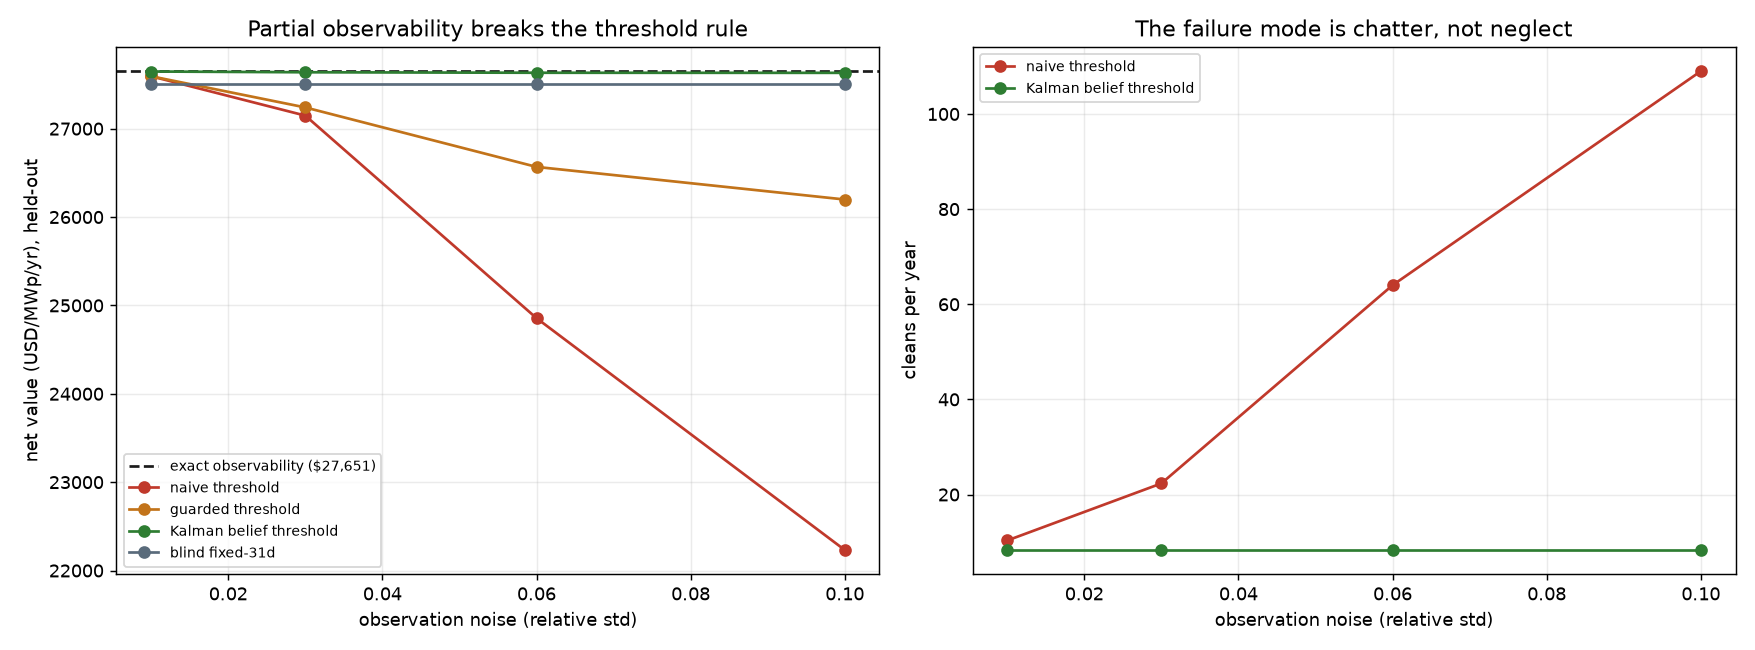
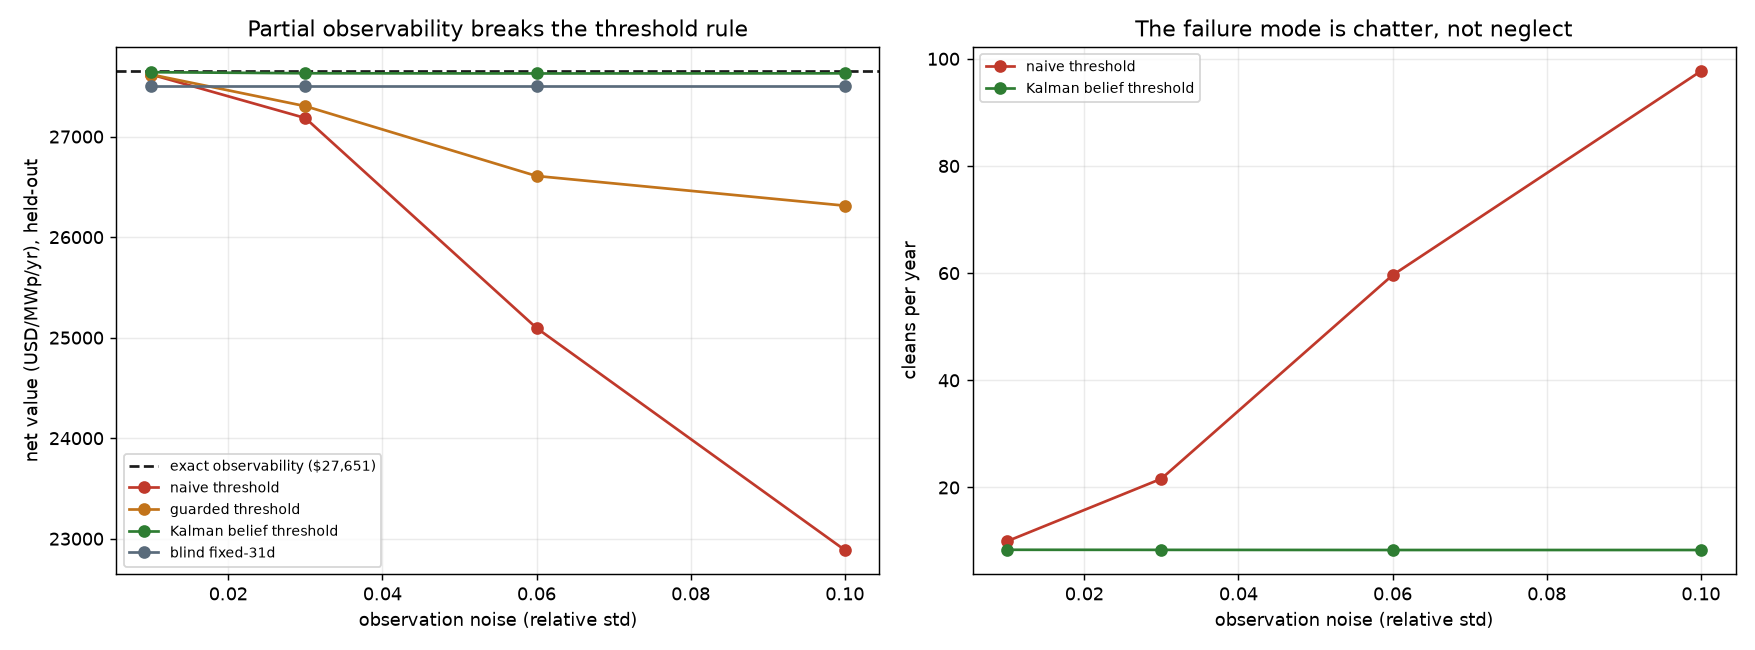
Fix m5_verify crashing after every check, and guard that bug class
The M5 re-run with corrected sampling completed every check and then died on
its last line:

    ValueError: too many values to unpack (expected 3)

check() had grown a `declared` flag and appends a four-tuple, but the summary
block still destructured three. An earlier patch was supposed to replace that
block and silently did not match, so the script has been crashing since the
declared/scrutiny labelling was introduced -- undetected because m5_verify was
not re-run until now.

This is the SECOND time an edit broke an earlier acceptance script and nothing
caught it; the first was the import cycle that broke m3_verify for three
milestones. The acceptance scripts are the evidence each milestone is done, so
tests/test_verify_scripts.py now asserts, statically and for every script:

  * it parses, and every milestone M0-M7 has one;
  * what check() appends to RESULTS matches what the summary unpacks -- the
    exact defect above, caught without executing anything;
  * the docstring records the criteria declared before the milestone was built,
    so the script can be audited against the plan later;
  * a failing check exits non-zero, including self-imposed scrutiny checks.

M5 now exits 0 with declared criteria 8/8 on the corrected 40-seed sampling.

Tests: 143 -> 176.

diff --git a/tests/test_verify_scripts.py b/tests/test_verify_scripts.py
@@ -1,0 +1,116 @@
+"""Static checks on the milestone acceptance scripts.
+
+These exist because the same bug happened twice, and both times the test suite
+could not have caught it:
+
+* ``scripts/m3_verify.py`` was broken for three milestones by an import cycle
+  introduced in M5 (see ``test_imports.py``);
+* ``scripts/m5_verify.py`` ran every check and then crashed unpacking its own
+  results, because a ``declared`` flag was added to ``check()`` while the
+  summary block that consumes ``RESULTS`` still expected the old three-tuple.
+
+Both were edits that broke an *earlier* script, and neither was noticed because
+the script was not re-run. The acceptance scripts are deliverables -- they are
+the evidence each milestone is done -- so their internal consistency is worth
+asserting cheaply and always, rather than only discovering it on the next
+hour-long training run.
+
+These are static checks by design: they parse the scripts rather than execute
+them, so they stay fast enough to run on every commit. End-to-end execution of
+the fast scripts is a separate, slower concern.
+"""
+
+from __future__ import annotations
+
+import ast
+from pathlib import Path
+
+import pytest
+
+SCRIPTS = sorted((Path(__file__).resolve().parents[1] / "scripts").glob("m*_verify.py"))
+
+
+def _module(path: Path) -> ast.Module:
+    return ast.parse(path.read_text(encoding="utf-8"))
+
+
+def test_every_milestone_has_an_acceptance_script():
+    names = {p.stem for p in SCRIPTS}
+    assert names == {f"m{i}_verify" for i in range(8)}, names
+
+
+@pytest.mark.parametrize("path", SCRIPTS, ids=lambda p: p.stem)
+def test_script_parses(path: Path):
+    _module(path)
+
+
+@pytest.mark.parametrize("path", SCRIPTS, ids=lambda p: p.stem)
+def test_results_arity_is_consistent(path: Path):
+    """What ``check()`` appends must match what the summary unpacks.
+
+    This is the exact m5_verify bug: ``check()`` grew a fourth field and the
+    summary kept destructuring three, so the script did all its work and then
+    raised ValueError on the last line.
+    """
+    tree = _module(path)
+
+    appended: set[int] = set()
+    unpacked: set[int] = set()
+
+    for node in ast.walk(tree):
+        # RESULTS.append((a, b, c[, d]))
+        if (
+            isinstance(node, ast.Call)
+            and isinstance(node.func, ast.Attribute)
+            and node.func.attr == "append"
+            and isinstance(node.func.value, ast.Name)
+            and node.func.value.id == "RESULTS"
+            and node.args
+            and isinstance(node.args[0], ast.Tuple)
+        ):
+            appended.add(len(node.args[0].elts))
+
+        # [... for a, b, c[, d] in RESULTS ...]
+        for comp in getattr(node, "generators", []):
+            if (
+                isinstance(comp.iter, ast.Name)
+                and comp.iter.id == "RESULTS"
+                and isinstance(comp.target, ast.Tuple)
+            ):
+                unpacked.add(len(comp.target.elts))
+
+    assert appended, f"{path.name} never appends to RESULTS"
+    assert len(appended) == 1, f"{path.name} appends differing tuple sizes: {appended}"
+    assert unpacked, f"{path.name} never consumes RESULTS"
+    assert unpacked == appended, (
+        f"{path.name}: check() appends {appended} field(s) but the summary "
+        f"unpacks {unpacked} -- the script will crash after running every check"
+    )
+
+
+@pytest.mark.parametrize("path", SCRIPTS, ids=lambda p: p.stem)
+def test_script_declares_its_criteria_in_the_docstring(path: Path):
+    """Each script must state the criteria that were declared before it was built.
+
+    The project's whole method is that acceptance criteria are fixed in advance;
+    a script whose docstring does not carry them cannot be audited against the
+    plan later.
+    """
+    docstring = ast.get_docstring(_module(path)) or ""
+    assert "declared" in docstring.lower(), (
+        f"{path.name} docstring must record the criteria declared before the "
+        "milestone was built"
+    )
+
+
+@pytest.mark.parametrize("path", SCRIPTS, ids=lambda p: p.stem)
+def test_exit_code_is_nonzero_when_a_check_fails(path: Path):
+    """A red run must exit non-zero, including for self-imposed scrutiny checks.
+
+    A script that prints FAIL and exits 0 is worse than no check at all.
+    """
+    source = path.read_text(encoding="utf-8")
+    assert "return 1" in source, f"{path.name} has no failing exit path"
+    assert "raise SystemExit(main())" in source, (
+        f"{path.name} must propagate its exit code"
+    )

diff --git a/scripts/m5_verify.py b/scripts/m5_verify.py
@@ -53,7 +53,7 @@ from rimal.env import (  # noqa: E402
 from rimal.eval import evaluate  # noqa: E402
 
 FIGURE_DIR = Path(__file__).resolve().parents[1] / "figures"
-RESULTS: list[tuple[str, bool, str]] = []
+RESULTS: list[tuple[str, bool, str, bool]] = []
 
 TRAIN_YEARS = DATA.train_years
 HOLDOUT_YEARS = DATA.holdout_years
@@ -310,14 +310,26 @@ def main() -> int:
     fig.savefig(out, dpi=130)
     print(f"\n      figure written to {out.relative_to(Path.cwd())}")
 
-    failed = [n for n, ok, _ in RESULTS if not ok]
+    declared = [(n, ok) for n, ok, _, d in RESULTS if d]
+    scrutiny = [(n, ok) for n, ok, _, d in RESULTS if not d]
+    declared_failed = [n for n, ok in declared if not ok]
+    scrutiny_failed = [n for n, ok in scrutiny if not ok]
+
     print("\n" + "=" * 62)
-    if failed:
-        print(f"M5 FAILED -- {len(failed)} check(s): {', '.join(failed)}")
-        return 1
-    print(f"M5 PASSED -- {len(RESULTS)}/{len(RESULTS)} checks")
+    if declared_failed:
+        print(f"M5 declared criteria: FAILED -- {', '.join(declared_failed)}")
+    else:
+        print(f"M5 declared criteria: PASSED ({len(declared)}/{len(declared)})")
+    if scrutiny_failed:
+        print(f"M5 scrutiny checks:   FAILED -- {', '.join(scrutiny_failed)}")
+        print()
+        print("  No learned agent beats the hand-built Kalman+threshold rule.")
+        print("  Reported, not buried: on this problem the hard part is state")
+        print("  estimation, not control.")
+    elif scrutiny:
+        print(f"M5 scrutiny checks:   PASSED ({len(scrutiny)}/{len(scrutiny)})")
     print("=" * 62)
-    return 0
+    return 1 if (declared_failed or scrutiny_failed) else 0
 
 
 if __name__ == "__main__":
